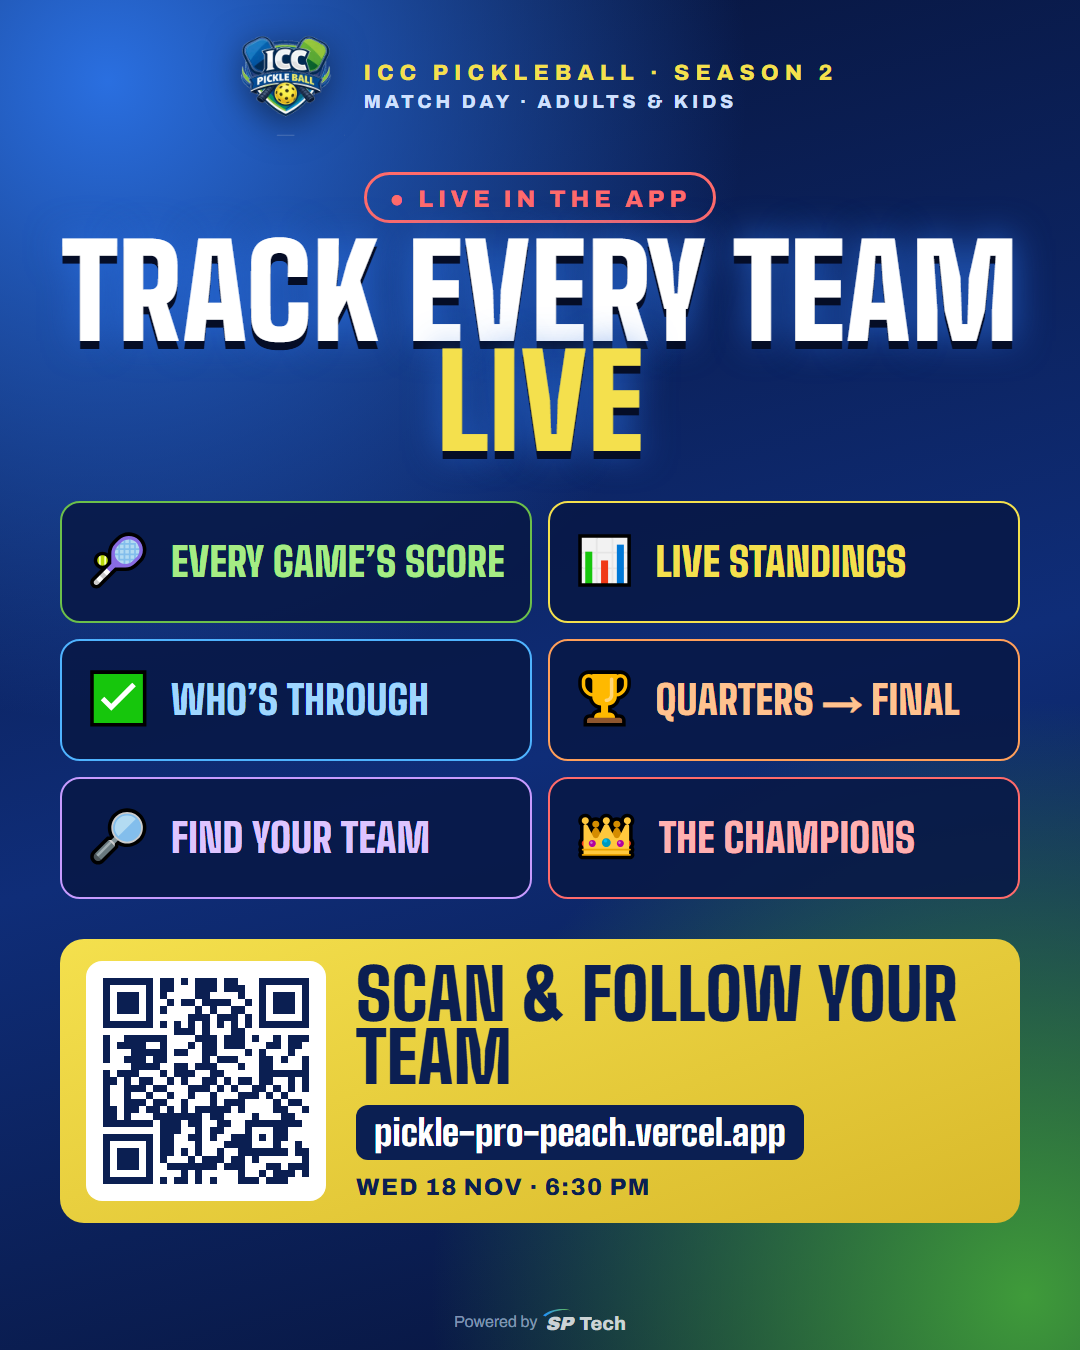
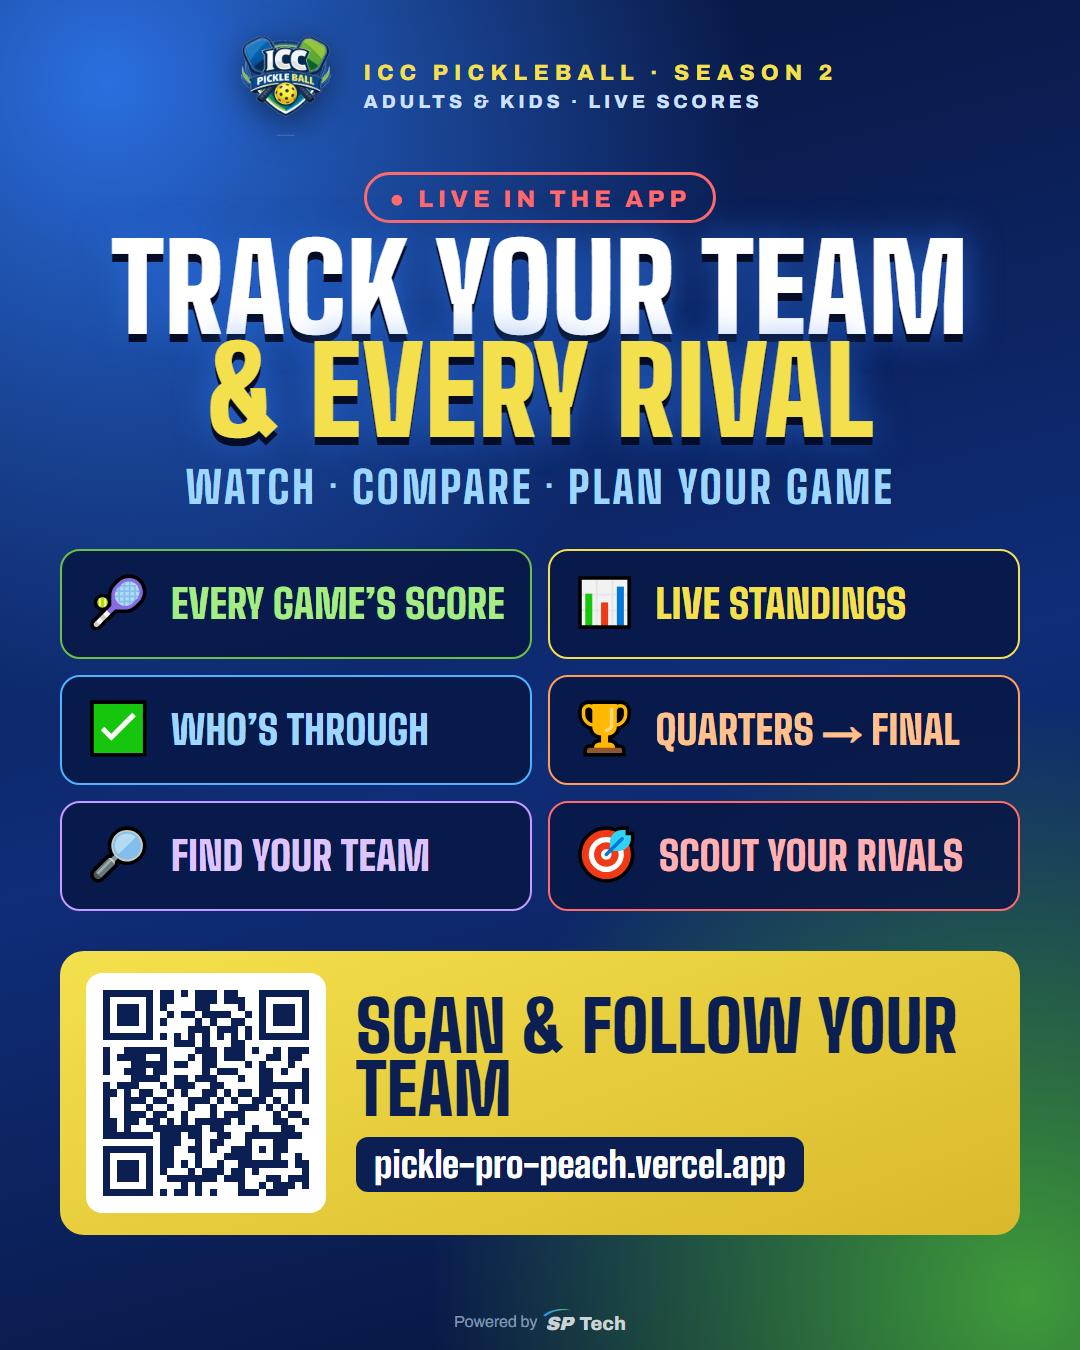
Phones switch to a new version by themselves; poster without a date [skip render]
- sw-reload.js (service worker): a new version reloads pages left on an
  older one once (after activation, not in waitUntil: that deadlocks);
  first visits never reload
- swUpdate.js: check for a new version when a page comes back; reload
  only when nobody is typing, at most once a minute
- poster: no date/time; track your team & every rival

diff --git a/marketing/qualification-poster.html b/marketing/qualification-poster.html
@@ -1,5 +1,5 @@
 <!doctype html>
-<!-- WhatsApp poster (2026-11-17): match day is live in the app — scores, standings, who goes
+<!-- WhatsApp poster (2026-11-18): track your team and every rival live in the app (no date or time) — scores, standings, who goes
      through, the knockout, find your team. Deliberately no rules / points workflow (the organisers
      explain those). Render: chrome --headless=new --hide-scrollbars --force-device-scale-factor=1
      --window-size=1080,1350 --screenshot=qualification-poster.png file:///…/qualification-poster.html -->
@@ -17,10 +17,10 @@
   .kicker { letter-spacing: .28em; font-weight: 800; color: #f4e04d; font-size: 22px; text-align: left; }
   .kicker span { display: block; color: #cfe0ff; letter-spacing: .2em; font-size: 19px; margin-top: 6px; }
   .live { margin-top: 34px; font-weight: 800; font-size: 24px; letter-spacing: .2em; color: #ff6b6b; border: 3px solid #ff6b6b; border-radius: 999px; padding: 6px 22px; }
-  h1 { margin-top: 14px; font-family: 'Big Shoulders', Impact, sans-serif; font-weight: 900; font-size: 128px; line-height: .86; text-transform: uppercase; text-shadow: 0 8px 0 #050d26, 0 0 36px rgb(42 111 224 / .8); }
+  h1 { margin-top: 14px; font-family: 'Big Shoulders', Impact, sans-serif; font-weight: 900; font-size: 120px; line-height: .86; text-transform: uppercase; text-shadow: 0 8px 0 #050d26, 0 0 36px rgb(42 111 224 / .8); }
   h1 em { font-style: normal; color: #f4e04d; display: block; }
-  .tiles { width: 100%; margin-top: 44px; display: grid; grid-template-columns: 1fr 1fr; gap: 16px; }
-  .tile { display: flex; align-items: center; gap: 18px; padding: 34px 22px; border-radius: 20px; background: rgb(8 24 70 / .88); border: 2px solid rgb(255 255 255 / .16); text-align: left; }
+  .tiles { width: 100%; margin-top: 36px; display: grid; grid-template-columns: 1fr 1fr; gap: 16px; }
+  .tile { display: flex; align-items: center; gap: 18px; padding: 28px 22px; border-radius: 20px; background: rgb(8 24 70 / .88); border: 2px solid rgb(255 255 255 / .16); text-align: left; }
   .tile .ic { font-size: 50px; line-height: 1; }
   .tile b { font-family: 'Big Shoulders', Impact, sans-serif; font-weight: 900; font-size: 40px; line-height: 1; text-transform: uppercase; }
   .tile:nth-child(1) { border-color: #6cc04a; } .tile:nth-child(1) b { color: #a5ec84; }
@@ -34,7 +34,7 @@
   .qr img { width: 100%; height: 100%; display: block; }
   .scan h2 { font-family: 'Big Shoulders', Impact, sans-serif; font-weight: 900; font-size: 70px; line-height: .9; text-transform: uppercase; }
   .url { margin-top: 16px; display: inline-block; font-family: 'Big Shoulders', Impact, sans-serif; font-weight: 800; font-size: 36px; color: #fff; background: #0b1f52; padding: 6px 18px; border-radius: 12px; }
-  .when { margin-top: 14px; font-weight: 800; font-size: 24px; letter-spacing: .06em; }
+  .sub { margin-top: 18px; font-family: 'Big Shoulders', Impact, sans-serif; font-weight: 800; font-size: 44px; letter-spacing: .06em; text-transform: uppercase; color: #9fd6ff; }
   .credit { margin-top: auto; padding: 0 0 16px; font-size: 16px; color: rgb(207 224 255 / .6); display: flex; align-items: center; gap: 8px; }
   .sp-mark { position: relative; font-weight: 800; font-size: 19px; color: rgb(255 255 255 / .78); padding-top: 4px; }
   .sp-mark b { font-style: italic; font-weight: 900; margin-right: 3px; }
@@ -43,10 +43,11 @@
 <body><div class="wrap">
   <div class="top">
     <img class="logo" src="../client/public/logo.png" alt="ICC Pickleball">
-    <p class="kicker">ICC PICKLEBALL · SEASON 2<span>MATCH DAY · ADULTS &amp; KIDS</span></p>
+    <p class="kicker">ICC PICKLEBALL · SEASON 2<span>ADULTS &amp; KIDS · LIVE SCORES</span></p>
   </div>
   <p class="live">● LIVE IN THE APP</p>
-  <h1>Track every team <em>live</em></h1>
+  <h1>Track your team <em>&amp; every rival</em></h1>
+  <p class="sub">Watch · compare · plan your game</p>
 
   <div class="tiles">
     <div class="tile"><span class="ic">🎾</span><b>Every game’s score</b></div>
@@ -54,7 +55,7 @@
     <div class="tile"><span class="ic">✅</span><b>Who’s through</b></div>
     <div class="tile"><span class="ic">🏆</span><b>Quarters → Final</b></div>
     <div class="tile"><span class="ic">🔎</span><b>Find your team</b></div>
-    <div class="tile"><span class="ic">👑</span><b>The champions</b></div>
+    <div class="tile"><span class="ic">🎯</span><b>Scout your rivals</b></div>
   </div>
 
   <div class="scan">
@@ -62,7 +63,6 @@
     <div>
       <h2>Scan &amp; follow your team</h2>
       <p class="url">pickle-pro-peach.vercel.app</p>
-      <p class="when">WED 18 NOV · 6:30 PM</p>
     </div>
   </div>
 

diff --git a/client/src/swUpdate.js b/client/src/swUpdate.js
@@ -1,0 +1,38 @@
+// The site works offline (PWA): a phone that opened it before keeps showing the old version until the
+// new one takes over in the background. When that happens, reload once so everyone sees the latest —
+// but never while someone is typing (host score boxes), and wait a moment so a score that was just
+// typed is saved first. Tabs left open (e.g. since the WhatsApp teaser) look for a new version when
+// they come back to the front. A brand-new visitor already has the latest: no reload.
+const KEY = 'picklepro:sw-reloaded-at';
+
+export function autoRefresh() {
+  const sw = navigator.serviceWorker;
+  if (!sw) return;
+  let controlled = Boolean(sw.controller);
+  let queued = false;
+  const typing = () => Boolean(document.activeElement?.matches?.('input, textarea, select, [contenteditable="true"]'));
+  const reload = () => {
+    try {
+      // At most once a minute (belt and braces against a reload loop).
+      if (Date.now() - Number(sessionStorage.getItem(KEY) || 0) < 60000) return;
+      sessionStorage.setItem(KEY, String(Date.now()));
+    } catch {
+      /* storage blocked: a new worker takes over only once, so there is no loop */
+    }
+    location.reload();
+  };
+  const whenIdle = () => (typing() ? document.addEventListener('focusout', () => setTimeout(whenIdle, 2500), { once: true }) : reload());
+  sw.addEventListener('controllerchange', () => {
+    if (!controlled) {
+      controlled = true; // first visit: this page is already the latest
+      return;
+    }
+    if (queued) return;
+    queued = true;
+    setTimeout(whenIdle, 2500);
+  });
+  const check = () => sw.getRegistration().then(r => r?.update()).catch(() => {});
+  document.addEventListener('visibilitychange', () => {
+    if (document.visibilityState === 'visible') check();
+  });
+}

diff --git a/client/public/sw-reload.js b/client/public/sw-reload.js
@@ -1,0 +1,20 @@
+// Loaded by the service worker (vite.config.js → workbox.importScripts). When a NEW version of the
+// site replaces an older one on a phone, reload the open pages once so they show the new version
+// straight away — even pages still running old code that can't reload themselves. A first visit (no
+// older version installed) is never reloaded. A new version only arrives after a deploy, and there
+// are no deploys during an event (none planned during one).
+let hadOlderVersion = false;
+self.addEventListener('install', () => {
+  // While this worker installs, registration.active is the version it replaces (null on a first visit).
+  hadOlderVersion = Boolean(self.registration.active);
+});
+self.addEventListener('activate', () => {
+  if (!hadOlderVersion) return;
+  hadOlderVersion = false;
+  // NOT inside event.waitUntil: the reloaded page's requests wait for this worker to finish
+  // activating, so waiting for the reload there would deadlock (seen in testing, 2026-11-18).
+  self.clients.claim()
+    .then(() => self.clients.matchAll({ type: 'window' }))
+    .then(list => list.forEach(c => c.navigate(c.url).catch(() => {})))
+    .catch(() => {});
+});

diff --git a/client/src/main.jsx b/client/src/main.jsx
@@ -12,6 +12,7 @@ import { CupScreen } from './cup/CupScreen.jsx';
 import './cup/cup.css';
 import './styles.css';
 import './audience.css';
+import { autoRefresh } from './swUpdate.js';
 
 // After a redeploy, an already-open tab asks for old file names (e.g. the PDF library) that no
 // longer exist. Reload once to pick up the new version instead of failing silently.
@@ -43,3 +44,4 @@ function App() {
   return <Page key={ev} />;
 }
 createRoot(document.getElementById('root')).render(<StrictMode><App /></StrictMode>);
+autoRefresh(); // phones that opened the site before switch to the new version by themselves

diff --git a/client/vite.config.js b/client/vite.config.js
@@ -30,6 +30,8 @@ export default defineConfig({
         // The PDF reader is host-only and large: never precache it on every phone.
         globIgnores: ['**/pdf.worker*', '**/pdf-*.js', '**/stage3d-*.js', '**/importTeams-*.js'],
         navigateFallbackDenylist: [/^\/api/, /^\/socket\.io/],
+        // A new version reloads pages left on an older one (public/sw-reload.js).
+        importScripts: ['sw-reload.js'],
       },
     }),
   ],

diff --git a/HANDOVER.md b/HANDOVER.md
@@ -509,7 +509,7 @@ npm run build         # client production build (client/dist)
 
 ## 13. Current state, what next, limits
 
-**As of 2026-11-18 (match day)** — live score cards / fast score entry / totals / burst fix (change log of 2026-11-18): client only, **not pushed yet** (Vercel preview for the owner; production = `ebbf046` until pushed).
+**As of 2026-11-18** — live score cards, fast score entry, totals and the burst fix are live (`2b38f76`, client only, Render not redeployed); auto-refresh for phones on an older version + dateless poster pushed after that (change log 2026-11-18 later). Matches are played on **Saturday**; the draw is tonight.
 
 **As of 2026-11-17 (night) — Adults league standings, QF qualification and re-seeded knockout (pushed to `main`)**
 - Live since `11c40d5`. Rules in §5.1; change log entry of 2026-11-17 (night). Tests 1058/1058; local rehearsals Main + Kids passed under the new rules.
@@ -568,6 +568,10 @@ npm run build         # client production build (client/dist)
 ## 15. Change log
 
 Newest first. Add an entry for every change.
+
+### 2026-11-18 (later) — Phones switch to a new version by themselves; poster without a date
+- **Auto-refresh**: the site is a PWA, so phones that opened it before kept showing the old version until a manual refresh (seen live after `2b38f76`). Now (1) `client/public/sw-reload.js`, loaded by the service worker (`workbox.importScripts` in `vite.config.js`): when a new version replaces an older one, the open pages reload once — this also reaches pages still running old code; a first visit is never reloaded. The reload is fired after activation, not inside `event.waitUntil` (that deadlocks: the reloaded page waits for the worker to finish activating — hit in local testing, never deployed). (2) `client/src/swUpdate.js`: pages check for a new version when they come back to the front, and reload on a new worker only when nobody is typing (host score boxes) and at most once a minute. Verified locally: older version installed → open once → reloaded by itself to the new one; normal visits don't reload; no loop.
+- **Poster** (`marketing/qualification-poster.*`, `qualification-whatsapp.txt`): no date or time (matches are on Saturday); "Track your team & every rival · Watch · compare · plan your game"; tile "Scout your rivals".
 
 ### 2026-11-18 (match day) — Live score cards for the audience, fast score entry, totals on every card
 - **Audience (Adults + Kids), after the draw:** the page opens on **Live scores** — one read-only card per match: both team names in full, every game with both pairs' full names (winning pair in green) and its points, **total points of both teams**, and the result in words (🏆 X won 4–2 / won on total points (3–3 in games) / 🤝 Draw · 3–3 / ● Live · n of 6 games / Not started yet). Live matches first, then results, then matches still to play. Then the standings, the knockout; Find my match and the teams list at the bottom. Knockout phase: champions → knockout score cards → bracket → standings → league results. No host hints on audience cards (`ScoreCard`, `ScoreBoard`, `resultOf`, `MatchFoot` in `Boards.jsx`; order in `CupLive.jsx`).
